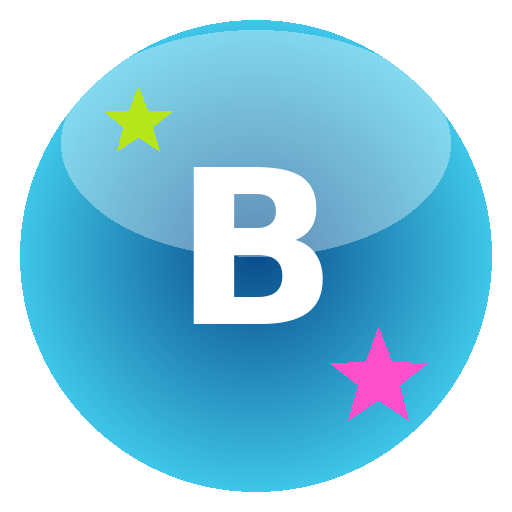
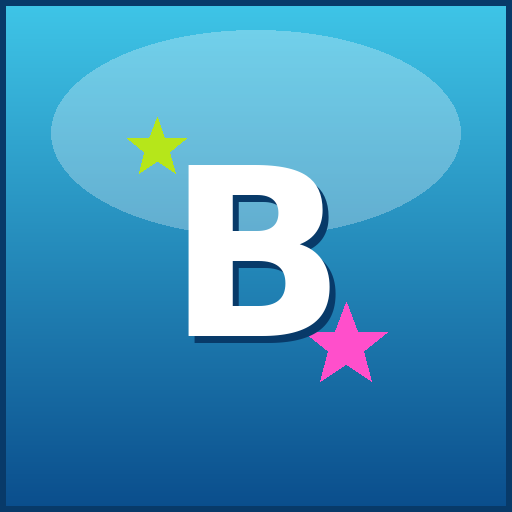
Add files via upload

diff --git a/service-worker.js b/service-worker.js
@@ -3,18 +3,18 @@
    Caches the app shell so it works offline once installed.
    ========================================================= */
 
-const CACHE_NAME = "bookspace-cache-v3";
+const CACHE_NAME = "bookspace-cache-v4";
 const ASSETS_TO_CACHE = [
   "./index.html",
   "./style.css",
   "./app.js",
   "./manifest.json",
-  "./icons/icon-192.png",
-  "./icons/icon-512.png",
-  "./icons/icon-180.png",
-  "./icons/icon-167.png",
-  "./icons/icon-152.png",
-  "./icons/favicon-32.png"
+  "./icon-192.png",
+  "./icon-512.png",
+  "./icon-180.png",
+  "./icon-167.png",
+  "./icon-152.png",
+  "./favicon-32.png"
 ];
 
 self.addEventListener("install", (event) => {

diff --git a/index.html b/index.html
@@ -8,11 +8,11 @@
 <link rel="manifest" href="manifest.json">
 <meta name="theme-color" content="#3FC6E8">
 
-<link rel="icon" type="image/png" sizes="32x32" href="icons/favicon-32.png">
-<link rel="apple-touch-icon" sizes="180x180" href="icons/icon-180.png">
-<link rel="apple-touch-icon" sizes="167x167" href="icons/icon-167.png">
-<link rel="apple-touch-icon" sizes="152x152" href="icons/icon-152.png">
-<link rel="apple-touch-icon" sizes="192x192" href="icons/icon-192.png">
+<link rel="icon" type="image/png" sizes="32x32" href="favicon-32.png">
+<link rel="apple-touch-icon" sizes="180x180" href="icon-180.png">
+<link rel="apple-touch-icon" sizes="167x167" href="icon-167.png">
+<link rel="apple-touch-icon" sizes="152x152" href="icon-152.png">
+<link rel="apple-touch-icon" sizes="192x192" href="icon-192.png">
 <meta name="apple-mobile-web-app-capable" content="yes">
 <meta name="mobile-web-app-capable" content="yes">
 <meta name="apple-mobile-web-app-status-bar-style" content="black-translucent">

diff --git a/README.md b/README.md
@@ -14,26 +14,29 @@ Everything is saved locally on your device using **IndexedDB** — nothing is ev
 
 ## Installing on your phone/computer home screen
 
-1. Unzip this folder and upload **all the files, keeping the folder structure** (especially the `icons/` folder), to a static HTTPS host — GitHub Pages works great, exactly like your other projects.
-2. Open the **live HTTPS URL** in your phone's browser (not a local file — the icon and offline support only work when it's loaded over `https://`).
-3. **iPhone (Safari):** tap the Share icon → **Add to Home Screen**. You should see the blue/magenta "B" icon in the preview, not a screenshot of the page — that confirms it's been picked up correctly.
-4. **Android (Chrome):** tap the **⋮** menu → **Install app** (this option only appears once Chrome has successfully loaded `manifest.json` and the icons — if you only see "Add to Home Screen" instead, give the page a few seconds to finish loading first, then check the menu again).
+1. Upload **all the files below directly into your GitHub repo** — they're all flat, no subfolders, so GitHub's normal "Add file → Upload files" works perfectly.
+2. Open the **live HTTPS URL** (your GitHub Pages link) in your phone's browser — the icon and offline support only work when it's loaded over `https://`, not a local file.
+3. **iPhone (Safari):** tap the Share icon → **Add to Home Screen**. You should see the blue/magenta "B" icon in the preview, not a screenshot of the page.
+4. **Android (Chrome):** tap the **⋮** menu → **Install app** (give the page a few seconds to finish loading first if you only see "Add to Home Screen" instead).
 5. Launch it from the home screen icon — it should open full-screen with no browser address bar, like a real app.
-
-If the icon still shows as a generic page/screenshot thumbnail instead of the BookSpace "B": double-check the `icons/` folder actually uploaded alongside `index.html` (not flattened into the same folder), then reload the page once in the browser before re-adding it to your home screen.
 
 ## File structure
 
+All files sit in one flat folder — just upload everything together into your repo, no subfolders needed:
+
 ```
-bookspace/
-├── index.html        ← app shell & markup
-├── style.css          ← all visual styling (Y2K/Frutiger Aero theme)
-├── app.js             ← all logic (IndexedDB storage, editor, characters, timeline, PWA registration)
-├── manifest.json      ← PWA metadata (name, icons, theme color)
-├── service-worker.js  ← offline caching of the app shell
-└── icons/
-    ├── icon-192.png
-    └── icon-512.png
+index.html
+style.css
+app.js
+manifest.json
+service-worker.js
+icon-192.png
+icon-512.png
+icon-180.png
+icon-167.png
+icon-152.png
+favicon-32.png
+README.md
 ```
 
 ## Notes